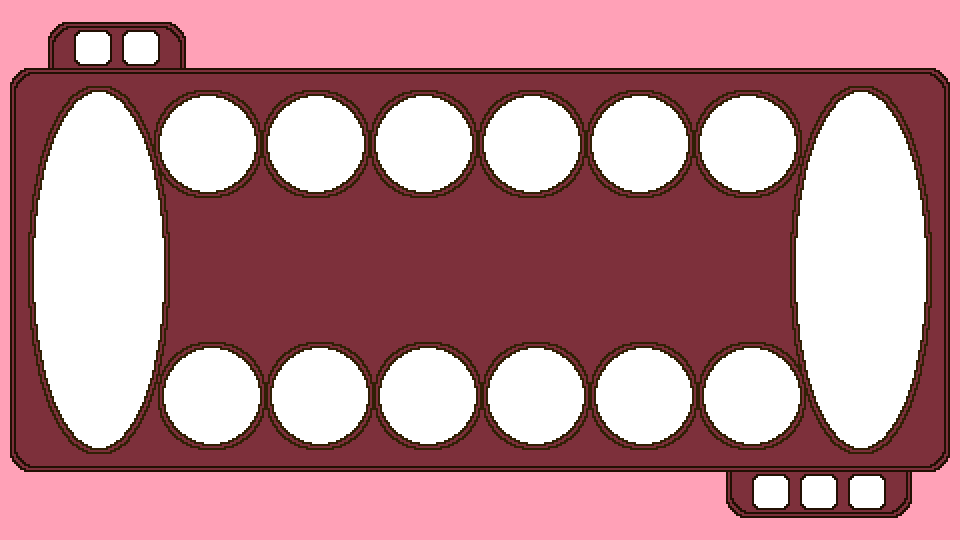
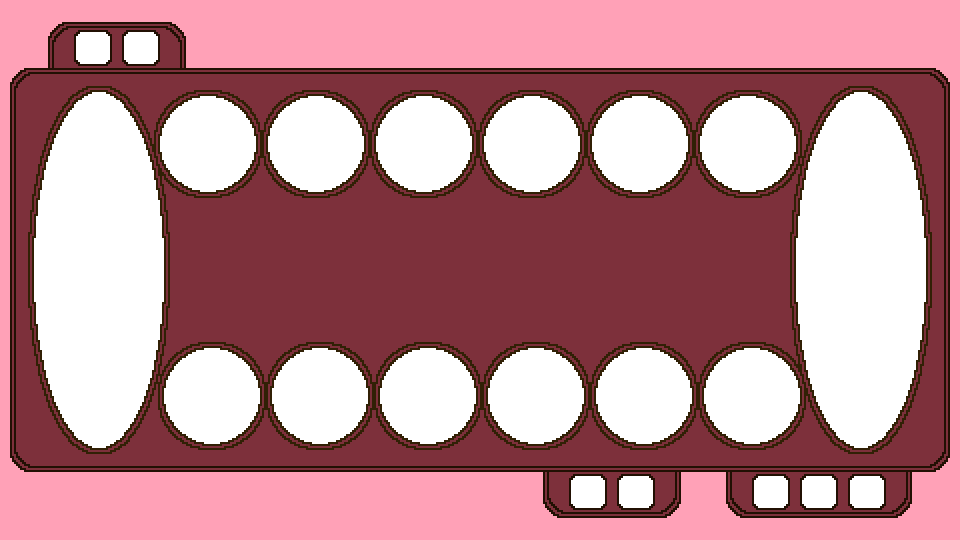
Interface update
-You can change to 2 players or 1 player
-New bottons
-Arrows

Changed region(s): [[0.5625, 0.8593, 0.7188, 0.9778]]

diff --git a/main.py b/main.py
@@ -17,8 +17,8 @@ pygame.display.set_icon(ICON)
 BACKGROUND = pygame.image.load(f"assets/Table.png").convert_alpha()
 WINDOW.blit(BACKGROUND, (0, 0))
 
-turn_pos = (187, 35)
-new_turn_pos = (700, 35)
+turn_pos = (400, 36)
+new_turn_pos = (700, 37)
 
 OBJECTS = []
 LAYERS = {0: Layer()}
@@ -28,15 +28,12 @@ FPS = 30
 
 class Game():
     def __init__(self, gameManager):
+        self.arrows = [Arrow("arrow.png") for _ in range(6)]
+
         self.clock = pygame.time.Clock()
         self.gameManager = gameManager
-        self.NEW_GAME = Button("NEW1.png")
-        self.EXIT = Button("EXIT1.png")
-
-        self.STONES_3 = Button("3p1.png")
-        self.STONES_5 = Button("5p1.png")
-        self.STONES_7 = Button("7p1.png")
         self.NUM_STONES = 3
+        self.TWO_PLAYERS = False
 
     def get_current_player(self) -> Player:
         return self.players[self.turn]
@@ -44,14 +41,60 @@ class Game():
     def start_game(self):
         self.table = Table(self.NUM_STONES)
         p1 = Player(self.table, 7, [i for i in range(8, 14)], 1)
-        p2 = Player(self.table, 0, [i for i in range(1, 7)], 2)       
-        p2.change_auto()
+        p2 = Player(self.table, 0, [i for i in range(1, 7)], 2)
+
+        if not self.TWO_PLAYERS:
+            p2.change_auto()
 
         self.players = [p1, p2]
         self.turn = 0
 
         self.draw_clusters()
         self.create_buttons()
+
+    def draw_arrows(self):
+        player = self.get_current_player()
+        idx = 0
+
+        if not player.manual:
+            self.hide_arrows()
+            return
+
+        for cluste_idx in player.cluster_ids:
+            if player.num == 1:
+                if self.arrows[idx] not in OBJECTS:
+                    OBJECTS.append(self.arrows[idx])
+
+                cluster = clusters[cluste_idx]
+                x, y = cluster.give_position()
+                x, y = x, y - 66
+
+                self.arrows[idx].add_position(x, y)
+                self.arrows[idx].reset_orientation()
+                self.arrows[idx].show()
+
+                self.arrows[idx].update()
+                idx += 1
+            
+            else:
+                if self.arrows[idx] not in OBJECTS:
+                    OBJECTS.append(self.arrows[idx])
+
+                cluster = clusters[cluste_idx]
+                x, y = cluster.give_position()
+                x, y = x, y + 66
+
+                self.arrows[idx].add_position(x, y)
+                self.arrows[idx].change_orientation()
+                self.arrows[idx].show()
+
+                self.arrows[idx].update()
+                idx += 1
+
+    def hide_arrows(self):
+        for i in range(6):
+            self.arrows[i].hide()
+            self.arrows[i].update()
 
     def draw_clusters(self):
         global clusters
@@ -131,17 +174,19 @@ class Game():
                     aux +=1
 
     def create_buttons(self):
+        global ONE_PLAYER
+        global TWO_PLAYER
         global STONES_3
         global STONES_5
         global STONES_7
         global NEW_GAME
         global EXIT
 
-        NEW_GAME = self.NEW_GAME
-        EXIT = self.EXIT
+        NEW_GAME = Button("NEW1.png")
+        EXIT = Button("EXIT1.png")
 
         x, y = 93, 48
-        buttons = [NEW_GAME, EXIT]
+        buttons = [EXIT, NEW_GAME]
         for button in buttons:
             if button not in OBJECTS:
                 OBJECTS.append(button)
@@ -149,12 +194,24 @@ class Game():
             button.add_position(x, y)
             x += 48
 
-        STONES_3 = self.STONES_3
-        STONES_5 = self.STONES_5
-        STONES_7 = self.STONES_7
+        STONES_3 = Button("3p1.png")
+        STONES_5 = Button("5p1.png")
+        STONES_7 = Button("7p1.png")
 
         x, y = 771, 492
         buttons = [STONES_3, STONES_5, STONES_7]
+        for button in buttons:
+            if button not in OBJECTS:
+                OBJECTS.append(button)
+
+            button.add_position(x, y)
+            x += 48
+
+        ONE_PLAYER = Button("onep1.png")
+        TWO_PLAYER = Button("twop1.png")
+
+        x, y = 588, 492
+        buttons = [ONE_PLAYER, TWO_PLAYER]
         for button in buttons:
             if button not in OBJECTS:
                 OBJECTS.append(button)
@@ -194,19 +251,19 @@ class Game():
             self.break_game = True
 
     def main(self):
-        global new_turn
-        global turn
-
         self.gameManager.new_game()
         self.start_game()
-        update_layers()
 
         self.break_game = False
         last_cluster = None
-        max_time = 1.6
+        max_time = .6
 
+        if not self.TWO_PLAYERS:
+            global turn
+            turn = pygame.image.load(f"assets/Mancala (Interface)/_.png").convert_alpha()
+
+        global new_turn
         new_turn = pygame.image.load(f"assets/Mancala (Interface)/_.png").convert_alpha()
-        turn = None
 
         while self.gameManager.In_Game:
             self.clock.tick(FPS)
@@ -249,12 +306,26 @@ class Game():
                         played = -1
                         break
 
+                    if ONE_PLAYER.click_me():
+                        if self.TWO_PLAYERS:
+                            self.TWO_PLAYERS = False
+                            played = -1
+                            break
+                        
+                    if TWO_PLAYER.click_me():
+                        if not self.TWO_PLAYERS:
+                            self.TWO_PLAYERS = True
+                            played = -1
+                            break
+
             curr_player = self.get_current_player()
             if played == -1:
                 break
 
             if curr_player.manual and self.gameManager.In_Game:
-                turn = pygame.image.load(f"assets/Mancala (Interface)/Tu turno.png").convert_alpha()
+                if not self.TWO_PLAYERS:
+                    turn = pygame.image.load(f"assets/Mancala (Interface)/Tu turno.png").convert_alpha()
+
                 self.check_game_status()
                 cluster_selected = False
 
@@ -298,6 +369,18 @@ class Game():
                                 played = -1
                                 break
 
+                            if ONE_PLAYER.click_me():
+                                if self.TWO_PLAYERS:
+                                    self.TWO_PLAYERS = False
+                                    played = -1
+                                    break
+                        
+                            if TWO_PLAYER.click_me():
+                                if not self.TWO_PLAYERS:
+                                    self.TWO_PLAYERS = True
+                                    played = -1
+                                    break
+
                     if played == -1:
                         break
                     
@@ -335,15 +418,20 @@ class Game():
                 continue
             
             self.turn += 1
-            turn = pygame.image.load(f"assets/Mancala (Interface)/_.png").convert_alpha()
-            new_turn = pygame.image.load(f"assets/Mancala (Interface)/_.png").convert_alpha()
+            if not self.TWO_PLAYERS:
+                turn = pygame.image.load(f"assets/Mancala (Interface)/_.png").convert_alpha()
 
+            new_turn = pygame.image.load(f"assets/Mancala (Interface)/_.png").convert_alpha()
             if self.turn >= len(self.players): 
                 self.turn = 0
 
             self.check_game_status()
             update_layers()
 
+        if not self.TWO_PLAYERS:
+            turn = pygame.image.load(f"assets/Mancala (Interface)/_.png").convert_alpha()
+        new_turn = pygame.image.load(f"assets/Mancala (Interface)/_.png").convert_alpha()
+        
         return self.gameManager
 
 
@@ -457,11 +545,17 @@ def update_layers():
     WINDOW.blit(BACKGROUND, (0, 0))
     game.draw_clusters()
 
-    try:
+    if game.TWO_PLAYERS:
+        WINDOW.blit(new_turn, turn_pos)
+        game.draw_arrows()
+
+    else:
+        game.draw_arrows()
         WINDOW.blit(new_turn, new_turn_pos)
         WINDOW.blit(turn, turn_pos)
-    except:
-        pass
+
+    if gameManager.search_winner:
+        game.hide_arrows()
 
     for object in OBJECTS:
         if object.layer not in LAYERS:
@@ -487,6 +581,7 @@ def run():
     while True:
         print("\n/////////////////////////////////////////////////////////////////////")
         gameManager = game.main()
+        update_layers()
 
         if game.gameManager.search_winner:
             p1 = game.players[0].count_stones()

diff --git a/objects.py b/objects.py
@@ -47,6 +47,11 @@ class GameObject(pygame.sprite.Sprite):
     def show(self):
         self.load_image(self.image_path)
 
+    def change_orientation(self, new_orientation):
+        self.orientation = new_orientation
+        self.image = pygame.transform.rotate(self.image, self.orientation)
+        self.rect = self.image.get_rect()
+
     def add_position(self, x, y):
         self.position = np.array([x, y])
         self.x = x
@@ -453,6 +458,34 @@ class Button(GameObject):
             return True
         else:
             return False
+
+
+class Arrow(GameObject):
+    def __init__(self, path):
+        self.path1 = path
+        self.path2 = "_.png"
+
+        super().__init__(img_path=os.path.join("assets", "Mancala (Interface)", self.path1), x_scale=1, y_scale=1, orientation=0)
+
+    def add_position(self, x, y):
+        super().add_position(x, y)
+
+    def change_orientation(self):
+        super().change_orientation(180)
+
+    def reset_orientation(self):
+        super().change_orientation(0)
+
+    def update(self):
+        super().update()
+
+    def hide(self):
+        super().change_sprite(os.path.join("assets", "Mancala (Interface)", self.path2))
+        super().update()
+
+    def show(self):
+        super().change_sprite(os.path.join("assets", "Mancala (Interface)", self.path1))
+        super().update()
 
 
 class Player():
